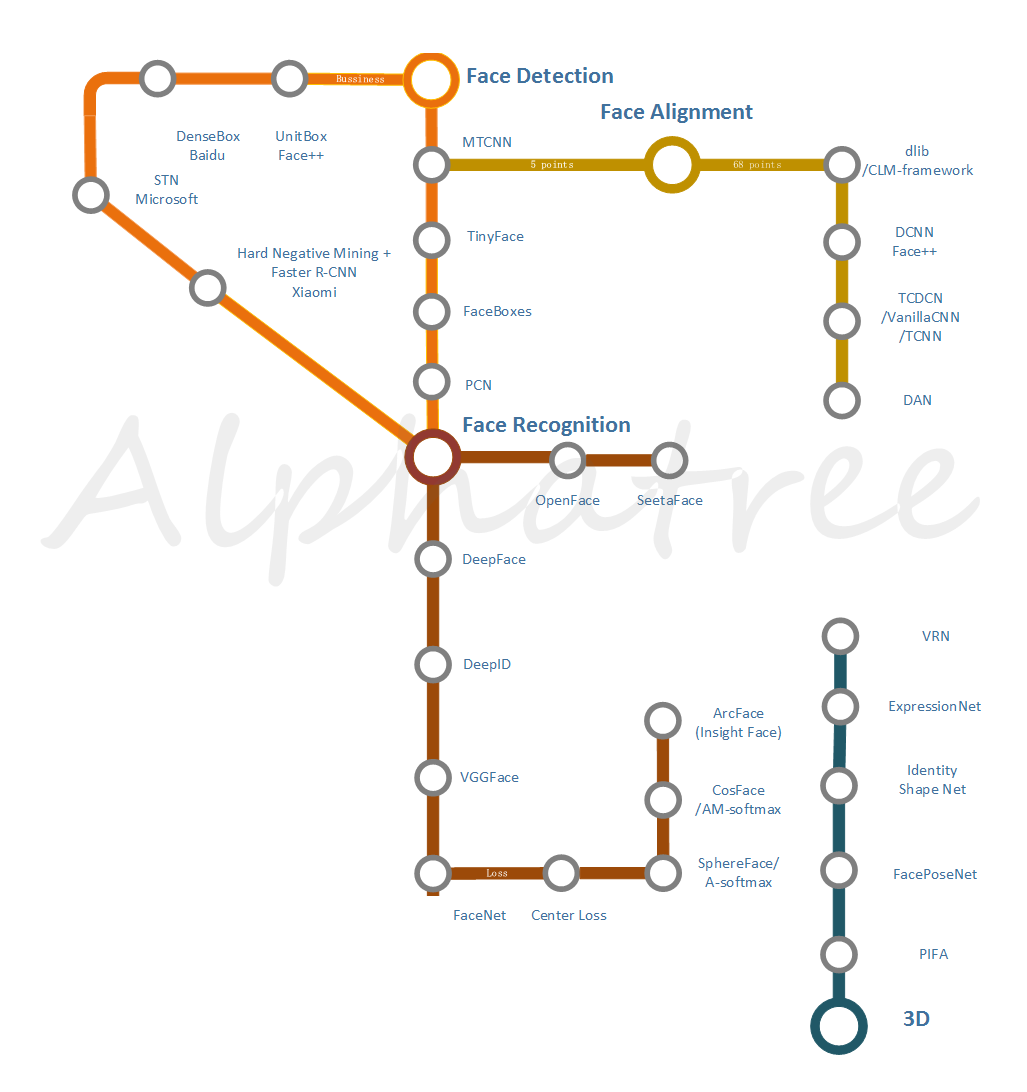
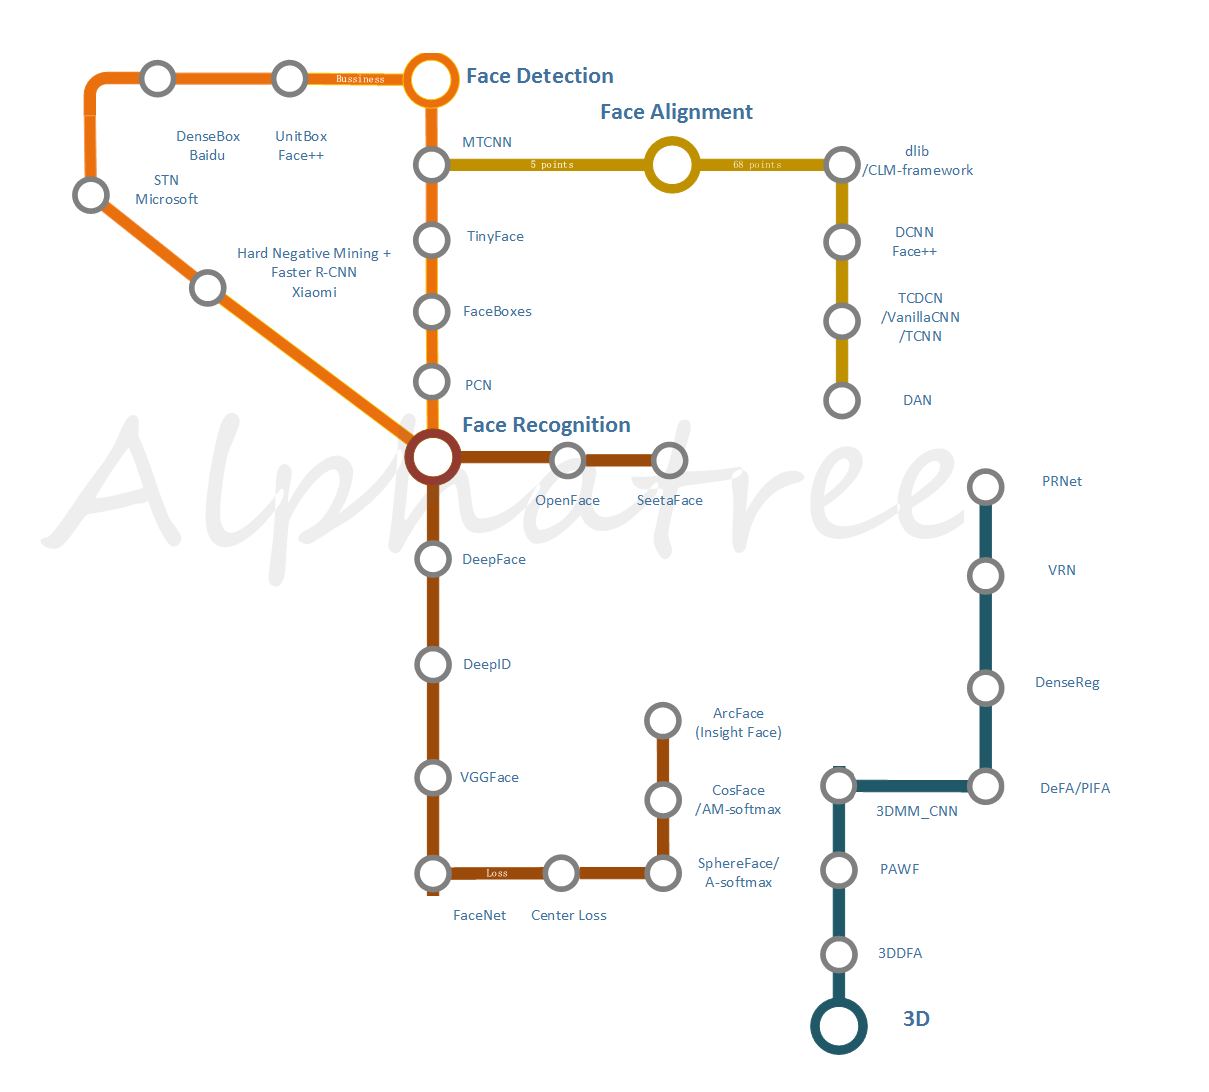
3d

diff --git a/README.md b/README.md
@@ -15,6 +15,7 @@
 
 2018/08/10 图上加入MnasNet ，人脸部分加入 mobilefacenet mobileID
 
+2018/09/04 修正3D人脸部分，整理16 17年的部分知名开源成果 将加入密集人脸对齐部分的算法 和 之前的cnn获取3dmm参数算法分开  。18年开始 主要研究在gan对侧脸部分的正脸生成，暂未整理 可看后续发展。 
 其他：
 Face ： mtcnn 
 
@@ -628,13 +629,20 @@ https://github.com/davidsandberg/facenet/blob/master/src/models/inception_resnet
  tensorflow 源码 :https://github.com/davidsandberg/facenet
 
  caffe center loss:https://github.com/kpzhang93/caffe-face
+
  mxnet center loss :https://github.com/pangyupo/mxnet_center_loss
  
  caffe sphereface:  https://github.com/wy1iu/sphereface
 
  deepinsight： https://github.com/deepinsight/insightface
+
  AMSoftmax ：https://github.com/happynear/AMSoftmax
 
+github：https://github.com/cmusatyalab/openface
+基于谷歌的文章《FaceNet: A Unified Embedding for Face Recognition and Clustering》。openface是卡内基梅隆大学的 Brandon Amos主导的。
+B. Amos, B. Ludwiczuk, M. Satyanarayanan,
+"Openface: A general-purpose face recognition library with mobile applications,"
+CMU-CS-16-118, CMU School of Computer Science, Tech. Rep., 2016.
 
 ### SeetaFace 
 
@@ -642,34 +650,44 @@ Detection: Funnel-Structured Cascade for Multi-View Face Detection with Alignmen
 
 2016 
 
+中科院山世光老师开源的人脸识别引擎—SeetafaceEngine，主要实现下面三个功能： 
+SeetaFace Detection 
+SeetaFace Alignment 
+SeetaFace Identification 
+
+github：https://github.com/seetaface/SeetaFaceEngine
 
 ### OpenFace
 
-B. Amos, B. Ludwiczuk, M. Satyanarayanan,
-"Openface: A general-purpose face recognition library with mobile applications,"
-CMU-CS-16-118, CMU School of Computer Science, Tech. Rep., 2016.
 
-https://github.com/cmusatyalab/openface/
+主要在Landmark Detection，Landmark and head pose tracking，Facial Action Unit Recognition等，其中Facial Action Unit Recognition是个比较有意思的点，该项目给出一个脸部的每个AU的回归分数和分类结果。
+
+github：https://github.com/TadasBaltrusaitis/OpenFace
 
 --------------------------------------
 
 轻量级人脸识别模型
 
-这个研究得比较少，主要是分两个方面，一种是设计一个小型网络，从头开始训。这种包括LmobileNetE（112M），lightCNN (A light cnn for deep face representation with noisy labels. arXiv preprint)， ShiftFaceNet（性能能有点差 LFW 96%）,MobileFaceNet等
+这个研究得比较少，主要是分两个方面：
+
+一种是设计一个小型网络，从头开始训。这种包括LmobileNetE（112M），lightCNN (A light cnn for deep face representation with noisy labels. arXiv preprint)， ShiftFaceNet（性能能有点差 LFW 96%）,MobileFaceNet等
+
 一种是从大模型进行knowledge distillation 知识蒸馏得到小模型。包括从DeepID2 进行teacher-student训练得到MobileID，从FaceNet预训练模型继续训MobileNetV1等。
 
 
 ### MobileFaceNet
 这个模型主要就是用类MobileNet V2的结构，加上ArcFace的loss进行训练。
 
-
+--------------------------------------
 ## 3d face
+3D人脸重建主要有两种方式，一种是通过多摄像头或者多帧图像的关键点匹配(Stereo matching)，重建人脸的深度信息，或者深度相机，从而得到模型,另一种是通过预先训练好的人脸模型(3d morphable model)，拟合单帧或多帧RGB图像或深度图像，从而得到3d人脸模型的个性化参数。
+
+深度学习在3d face的研究着重在第二个。
+
 由于Blanz和Vetter在1999年提出3D Morphable Model（3DMM）（Blanz, V., Vetter, T.: A morphable model for the synthesis of 3d faces. international
 conference on computer graphics and interactive techniques (1999)），成为最受欢迎的单图3D面部重建方法。早期是针对特殊点的对应关系（可以是关键点 也可以是局部特征点）来解非线性优化函数，得到3DMM系数。然而，这些方法严重依赖于高精度手工标记或者特征。
 
-
-用级联CNN结构来回归准确3DMM系数，解决大姿态下面部特征点定位问题，但迭代会花费大量时间
-
+首先，2016年左右，CNN的尝试主要是用级联CNN结构来回归准确3DMM系数，解决大姿态下面部特征点定位问题。但迭代会花费大量时间
 
 
 ### 3DDFA: Face Alignment Across Large Poses- A 3D Solution CVPR2016
@@ -677,7 +695,9 @@ conference on computer graphics and interactive techniques (1999)），成为最
 http://www.cbsr.ia.ac.cn/users/xiangyuzhu/projects/3DDFA/main.htm
 
 
-自动化所作品， 解决极端姿态下（如侧脸），一些特征点变了不可见，不同姿态下的人脸表观也存在巨大差异使得关键点定位困难等问题，本文提出一种基于3D人脸形状的定位方法3DDFA，算法框架为：
+自动化所作品， 解决极端姿态下（如侧脸），一些特征点变了不可见，不同姿态下的人脸表观也存在巨大差异使得关键点定位困难等问题
+
+本文提出一种基于3D人脸形状的定位方法3DDFA，算法框架为：
 (1) 输入为100x100的RGB图像和PNCC （Projected Normalized Coordinate Code） 特征，PNCC特征的计算与当前形状相关，可以反映当前形状的信息；算法的输出为3D人脸形状模型参数
 (2) 使用卷积神经网络拟合从输入到输出的映射函数，网络包含4个卷积层，3个pooling层和2个全连接层
 通过级联多个卷积神经网络直至在训练集上收敛，PNCC特征会根据当前预测的人脸形状更新，并作为下一级卷积神经网络的输入。
@@ -685,7 +705,7 @@ http://www.cbsr.ia.ac.cn/users/xiangyuzhu/projects/3DDFA/main.htm
 实验证明该损失函数可以提升定位模型的精度。由于参数化形状模型会限制人脸形状变形的能力，作者在使用3DDFA拟合之后，抽取HOG特征作为输入，使用线性回归来进一步提升2D特征点的定位精度。
 
 训练3DDFA模型，需要大量的多姿态人脸样本。为此，作者基于已有的数据集如300W，利用3D信息虚拟生成不同姿态下的人脸图像，核心思想为：先预测人脸图像的深度信息，通过3D旋转来生成不同姿态下的人脸图像
-链接(含源码)
+
 
 ### Large-Pose Face Alignment via CNN-Based Dense 3D Model Fitting PAWF
 
@@ -703,19 +723,22 @@ http://www.cbsr.ia.ac.cn/users/xiangyuzhu/projects/3DDFA/main.htm
 此外，作者提出两种pose-invariant的特征Piecewise Affine-Warpped Feature (PAWF)和Direct 3D Projected Feature (D3PF)，可以进一步提升特征点定位的精度
 
 
+End to end 的方法，将输入图片转换为3DMM参数
+### 3dmm_cnn 
+
 Regressing Robust and Discriminative 3D Morphable Models with a very Deep Neural Network 2016
 https://github.com/anhttran/3dmm_cnn
 
-End to end 的方法 获得3dmm参数
 
 
 
  密集人脸对齐 用cnn学习2d图像与3d图像之间的密集对应关系 然后使用预测的密集约束计算3DMM参数。
 
-### Dense Face Alignment
+### DeFA： Dense Face Alignment /Pose-Invariant Face Alignment (PIFA) ICCV 2017 
+http://cvlab.cse.msu.edu/project-pifa.html 
 
 密西根州立大学的Amin Jourabloo和Xiaoming Liu等人的工作，该组其他人脸对齐的工作可参见其项目主页。
- ICCV 2017
+
 摘要： 在人脸对齐方法中，以前的算法主要集中在特定数量的人脸特征点检测，比如5、34或者68个特征点，这些方法都属于稀疏的人脸对齐算法。在本文中，我们提出了一种针对大角度人脸图像的一种3D密集人脸对齐算法。在该模型中，我们通过训练CNN模型利用人脸图像来估计3D人脸shape，利用该shape来fitting相应的3D人脸模型，不仅能够检测到人脸特征点，还能匹配人脸轮廓和SIFT特征点。此外还解决了不同数据库中由于包含不同数量的特征点（5、34或68）而不能交叉验证的问题。可以实时运行
 
 
@@ -724,29 +747,27 @@ End to end 的方法 获得3dmm参数
 原文： CVPR 2017 https://github.com/ralpguler/DenseReg
 摘要： 在本文中，我们提出通过完全卷积网络学习从图像像素到密集模板网格的映射。我们将此任务作为一个回归问题，并利用手动注释的面部标注来训练我们的网络。我们使用这样的标注，在三维对象模板和输入图像之间，建立密集的对应领域，然后作为训练我们的回归系统的基础。我们表明，我们可以将来自语义分割的想法与回归网络相结合，产生高精度的“量化回归”架构。我们的系统叫DenseReg，可以让我们以全卷积的方式估计密集的图像到模板的对应关系。因此，我们的网络可以提供有用的对应信息，而当用作统计可变形模型的初始化时，我们获得了标志性的本地化结果，远远超过当前最具挑战性的300W基准的最新技术。我们对大量面部分析任务的方法进行了全面评估，并且还展示了其用于其他估计任务的用途，如人耳建模。
 
-### Learning Dense Facial Correspondences in Unconstrained Images
-
-原文： ICCV2017
-
-
-### dense face alignment /Pose-Invariant Face Alignment (PIFA)  ICCVW2017 
-http://cvlab.cse.msu.edu/project-pifa.html
-
 
 
 ### vrn
-用CNN Regression的方法解决大姿态下的三维人脸重建问题。 
+诺丁汉大学和金斯顿大学 用CNN Regression的方法解决大姿态下的三维人脸重建问题。 
 ICCV论文：《Large Pose 3D Face Reconstruction from a Single Image via Direct Volumetric CNN Regression》
+
+Volumetric Regression Network(VRN) 本文作者使用的模型，由多个沙漏模型组合在一起形成。 
+- VRN模型使用两个沙漏模块堆积而成，并且没有使用hourglass的间接监督结构。 
+- VRN-guided 模型是使用了Stacked Hourglass Networks for Human Pose Estimation 的工作作为基础，在前半部分使用两个沙漏模块用来获取68个标记点，后半部分使用两个沙漏模块，以一张RGB图片和68个通道（每个通道一个标记点）的标记点作为输入数据。 
+- VRN-Multitask 模型，用了三个沙漏模块，第一个模块后分支两个沙漏模块，一个生成三维模型，一个生成68个标记点。 
 
 github：https://github.com/AaronJackson/vrn
 
-### PRNet Joint 3D Face Reconstruction and Dense Alignment with Position Map Regression Network
+
+### PRNet：Joint 3D Face Reconstruction and Dense Alignment with Position Map Regression Network
 
 原文： CVPR 2017
 摘要： 本文提出了一个强有力的方法来同时实现3D人脸重构和密集人脸对齐。为实现该目标，我们设计了一个UV位置图，来达到用2D图表示UV 空间内完整人脸的3D形状特征。然后训练了一个简单的CNN来通过单张2D图像回归得到UV图。我们的方法不需要任何先验人脸模型，就可以重构出完整的面部结构。速度9.8ms/帧。
 
 
-
+https://github.com/YadiraF/PRNet
 
 HPEN High-Fidelity Pose and Expression Normalization for Face Recognition in the Wild
 
@@ -754,14 +775,12 @@ HPEN High-Fidelity Pose and Expression Normalization for Face Recognition in the
 
 
 
-
-
+表情相关
+ExpNet: Landmark-Free, Deep, 3D Facial Expressions
 
 Expression-Net
 https://github.com/fengju514/Expression-Net
-Estimate 3D face pose by a Convolutional Neural Network
-FACE POSE NET
-https://github.com/fengju514/Face-Pose-Net
+
 
 
 数据集
@@ -774,13 +793,14 @@ MTFL(TCDCN所用)
 
 [300W-3D-Face]: The fitted 3D mesh, which is needed if you do not have Basel Face Model (BFM)
 
-2D-and-3D-face-alignment
+### 3D-FAN ：2D-and-3D-face-alignment
+
+How far are we from solving the 2D & 3D Face Alignment problem? (and a dataset of 230,000 3D facial landmarks) ICCV2017
+直接使用CNN预测heatmap以获得3D face landmark
+
 两个github项目，在做同一件事，2d和3d的人脸对齐问题，区别在于前者是Pytorch 的代码，后者是Torch7的。 
-论文有个很霸道的名字：《How far are we from solving the 2D & 3D Face Alignment problem? (and a dataset of 230,000 3D facial landmarks) 》ICCV2017
 github：https://github.com/1adrianb/face-alignment 
 github: https://github.com/1adrianb/2D-and-3D-face-alignment
-
-
 
 2D-FAN：https://www.adrianbulat.com/downloads/FaceAlignment/2D-FAN-300W.t7
 
@@ -789,6 +809,13 @@ github: https://github.com/1adrianb/2D-and-3D-face-alignment
 2D-to-3D FAN：https://www.adrianbulat.com/downloads/FaceAlignment/2D-to-3D-FAN.tar.gz
 
 3D-FAN-depth：https://www.adrianbulat.com/downloads/FaceAlignment/3D-FAN-depth
+
+
+other
+
+
+
+
 
 
 -------------------------------------------------------------------------------
@@ -1072,6 +1099,14 @@ https://github.com/MichalBusta/DeepTextSpotter
 
 该方法将文字检测和识别整合到一个端到端的网络中。检测使用YOLOv2+RPN，并利用双线性采样将文字区域统一为高度一致的变长特征序列，再使用RNN+CTC进行识别。
 
+
+
+
+文档矫正 
+
+DocUNet: Document Image Unwarping via A Stacked U-Net  face++
+
+https://zhuanlan.zhihu.com/p/37306349
 -----------------------------------------------------------------------------
 ![ObjectDetection&Seg](https://github.com/weslynn/graphic-deep-neural-network/blob/master/map/ObjectDetection&Seg.png)
 
@@ -1205,6 +1240,8 @@ Github 地址：https://github.com/alexjc/neural-doodle
 https://github.com/luanfujun/deep-painterly-harmonization
 
 
+### Visual Attribute Transfer through Deep Image Analogy SIGGRAPH 2017 paper
+https://github.com/msracver/Deep-Image-Analogy
 ### 
 
 ### Colornet

diff --git a/database/face.md b/database/face.md
@@ -129,6 +129,25 @@ http://www.robots.ox.ac.uk/~vgg/data/vgg_face2/
 
 
 
+## 3D数据库
+
+
+UMDFace
+
+MTFL(TCDCN所用)
+
+[300W-3D]: The fitted 3D Morphable Model (3DMM) parameters of 300W samples.
+
+[300W-3D-Face]: The fitted 3D mesh, which is needed if you do not have Basel Face Model (BFM)
+
+
+[300W-LP]: The synthesized large-pose face images from 300W. 300W standardises multiple alignment
+databases with 68 landmarks, including AFW, LFPW, HELEN, IBUG and XM2VTS.
+
+[AFLW2000-3D]: The fitted 3D faces of the first 2000 AFLW samples, which can be used for 3D face alignment evaluation.
+
+
+
 ## 视频数据库
 
 YouTube Face   1,595个人 3,425段视频非限制场景 
